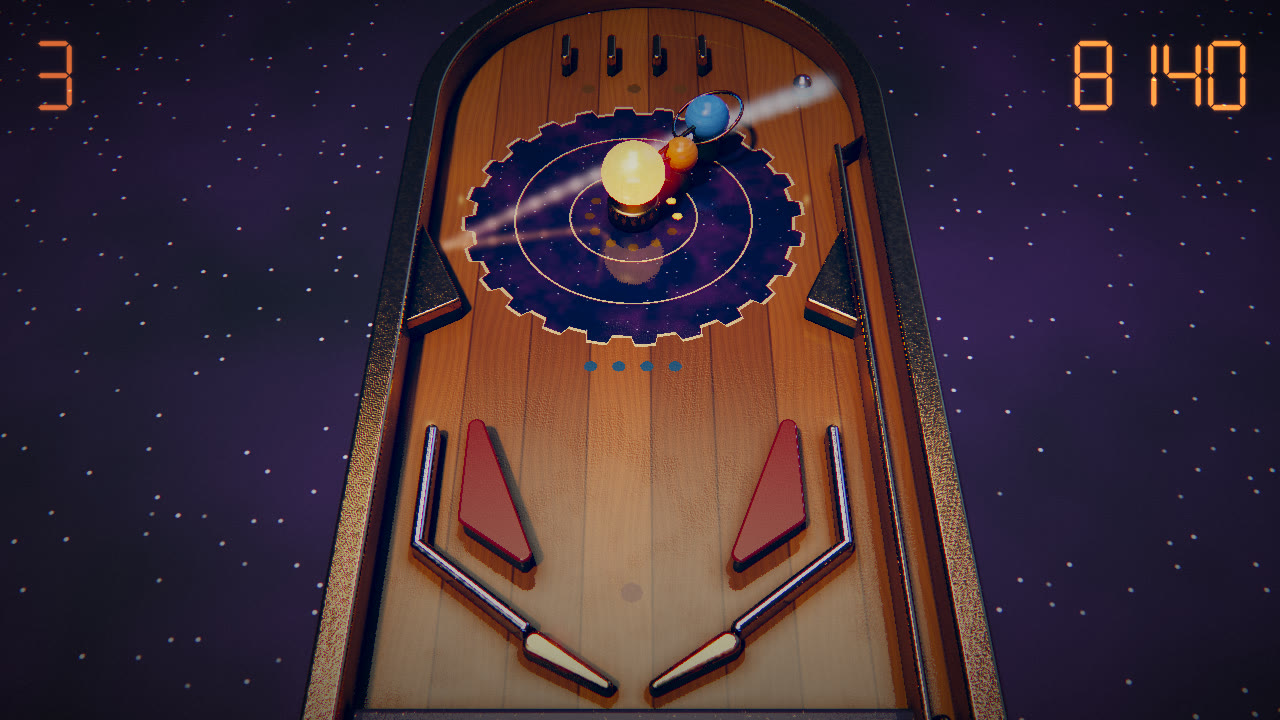
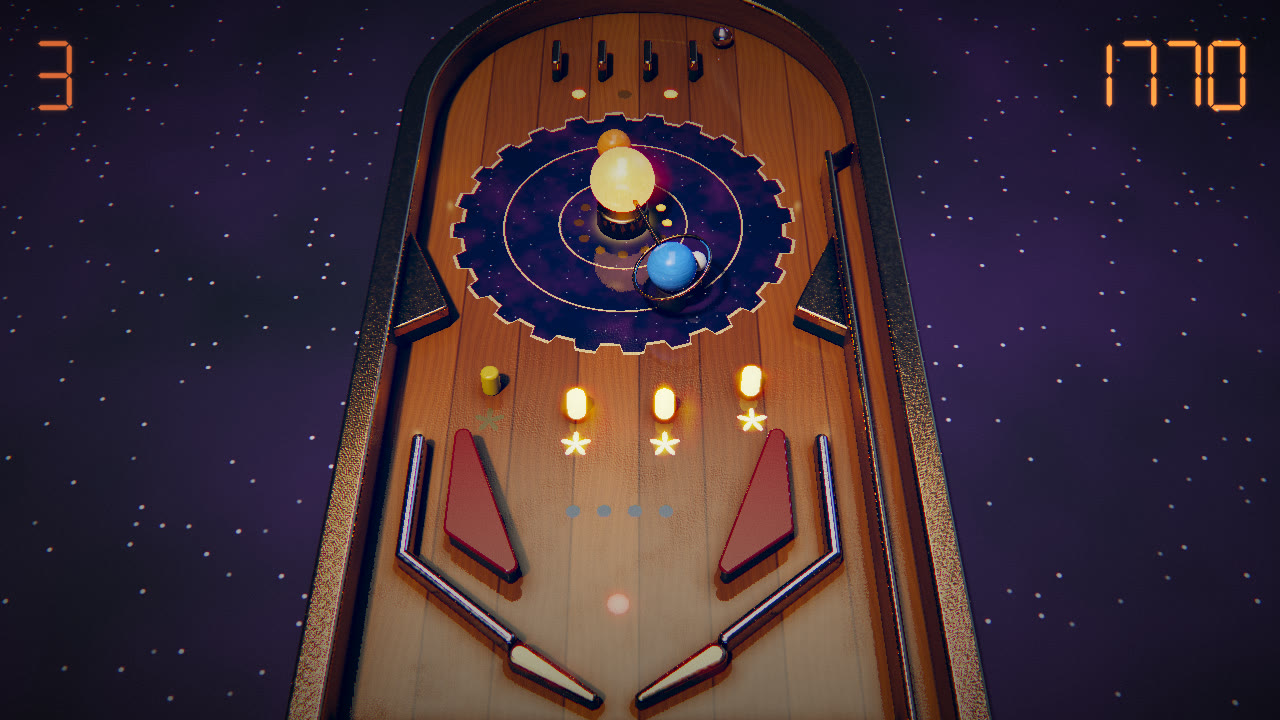
README: star targets, multiball, jackpots; screenshots (7704 bytes)

diff --git a/README.md b/README.md
@@ -12,7 +12,7 @@ the rendering use the same shapes, including the planets that orbit the sun.
 
 ## Current state
 
-**Size:** 6949 bytes (Snapshot, the fast build used to follow the size;
+**Size:** 7704 bytes (Snapshot, the fast build used to follow the size;
 Release is about 170 bytes smaller), out of 8192. History in `tools/sizes.txt`.
 
 **Controls:** left / right arrows: flippers. Down: pull the plunger, release to
@@ -29,7 +29,12 @@ launch. Up: nudge. Escape: quit.
 * Rules: 3 balls, score, game over screen, a new game after 3 s. Top lanes:
   rolling through all three raises the multiplier (x2 to x5), and the flippers
   move the lit lanes. Ball save during the first 8 s of each ball.
-* Lamps: top lanes, multiplier, ball save (blinks faster when it ends), a clock
+* Star targets and multiball: four round targets below the orrery light up
+  when hit. A full set aligns the planets (shockwave, beam of light) and
+  starts a 3-ball multiball with a ball save; each multiball needs one more
+  set. During multiball the sun is the jackpot (it grows, and a star target
+  relights it); a set adds a ball once, then pays a super jackpot.
+* Lamps: top lanes, multiplier, ball save, stars (blinks faster when it ends), a clock
   dial with a light chase around the sun.
 * Rendering: raymarched 3D with a warm key light (soft shadows), a cool fill
   light, the sun as a point light and four warm GI lamps along the walls;
@@ -49,7 +54,7 @@ launch. Up: nudge. Escape: quit.
 * Sound: music; a chime for bumpers, a thunk for flippers, a snap for
   slingshots and lanes, a falling tone for drains.
 
-**Not yet:** targets, multiball, ramps, tilt, a title screen, music that fits
+**Not yet:** ramps, tilt, a title screen, music that fits
 the theme, hand-tuned flipper feel.
 
 This branch started from the engine of the shoot 'em up released at
@@ -109,10 +114,10 @@ out\cat-debug.exe --capture --video replay.mp4 --keys inputs.txt
 out\cat-debug.exe --capture --end 10 --trace 0.1
 ```
 
-By default, a bot plays: it flips when the ball comes near a flipper, and
+By default, a bot plays: it flips when a ball comes near a flipper, and
 pulls the plunger (`--keys auto` for fixed scripted inputs).
 
-`--trace` prints the state (the fields that are not arrays) at an interval:
+`--trace` prints the state (small arrays included) at an interval:
 handy to follow the ball.
 
 See `src/edit/capture.h` for the options.
